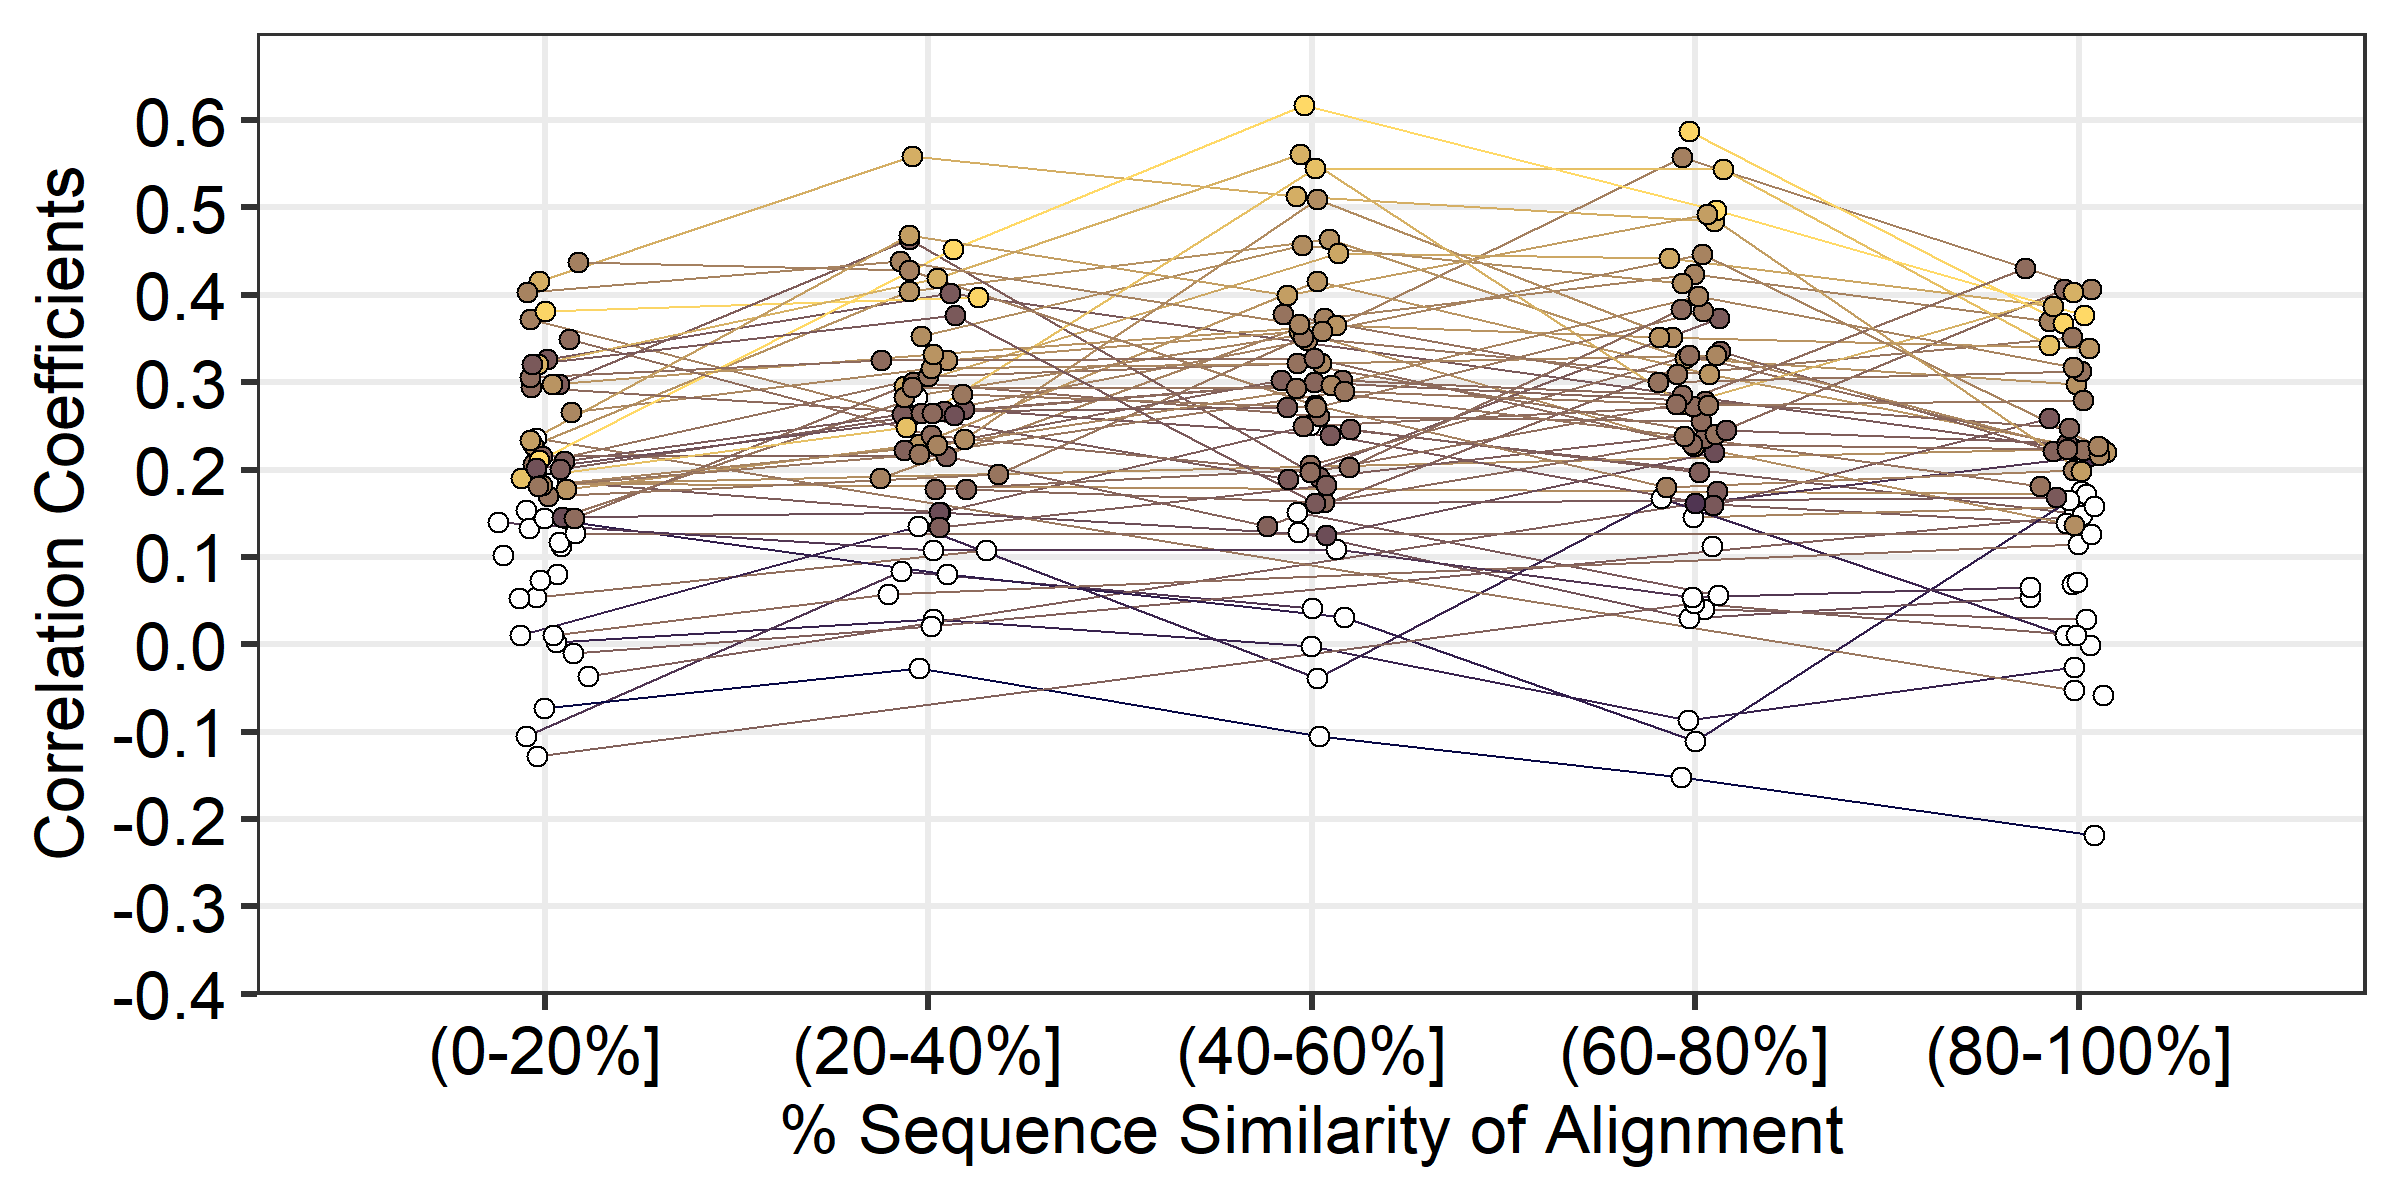
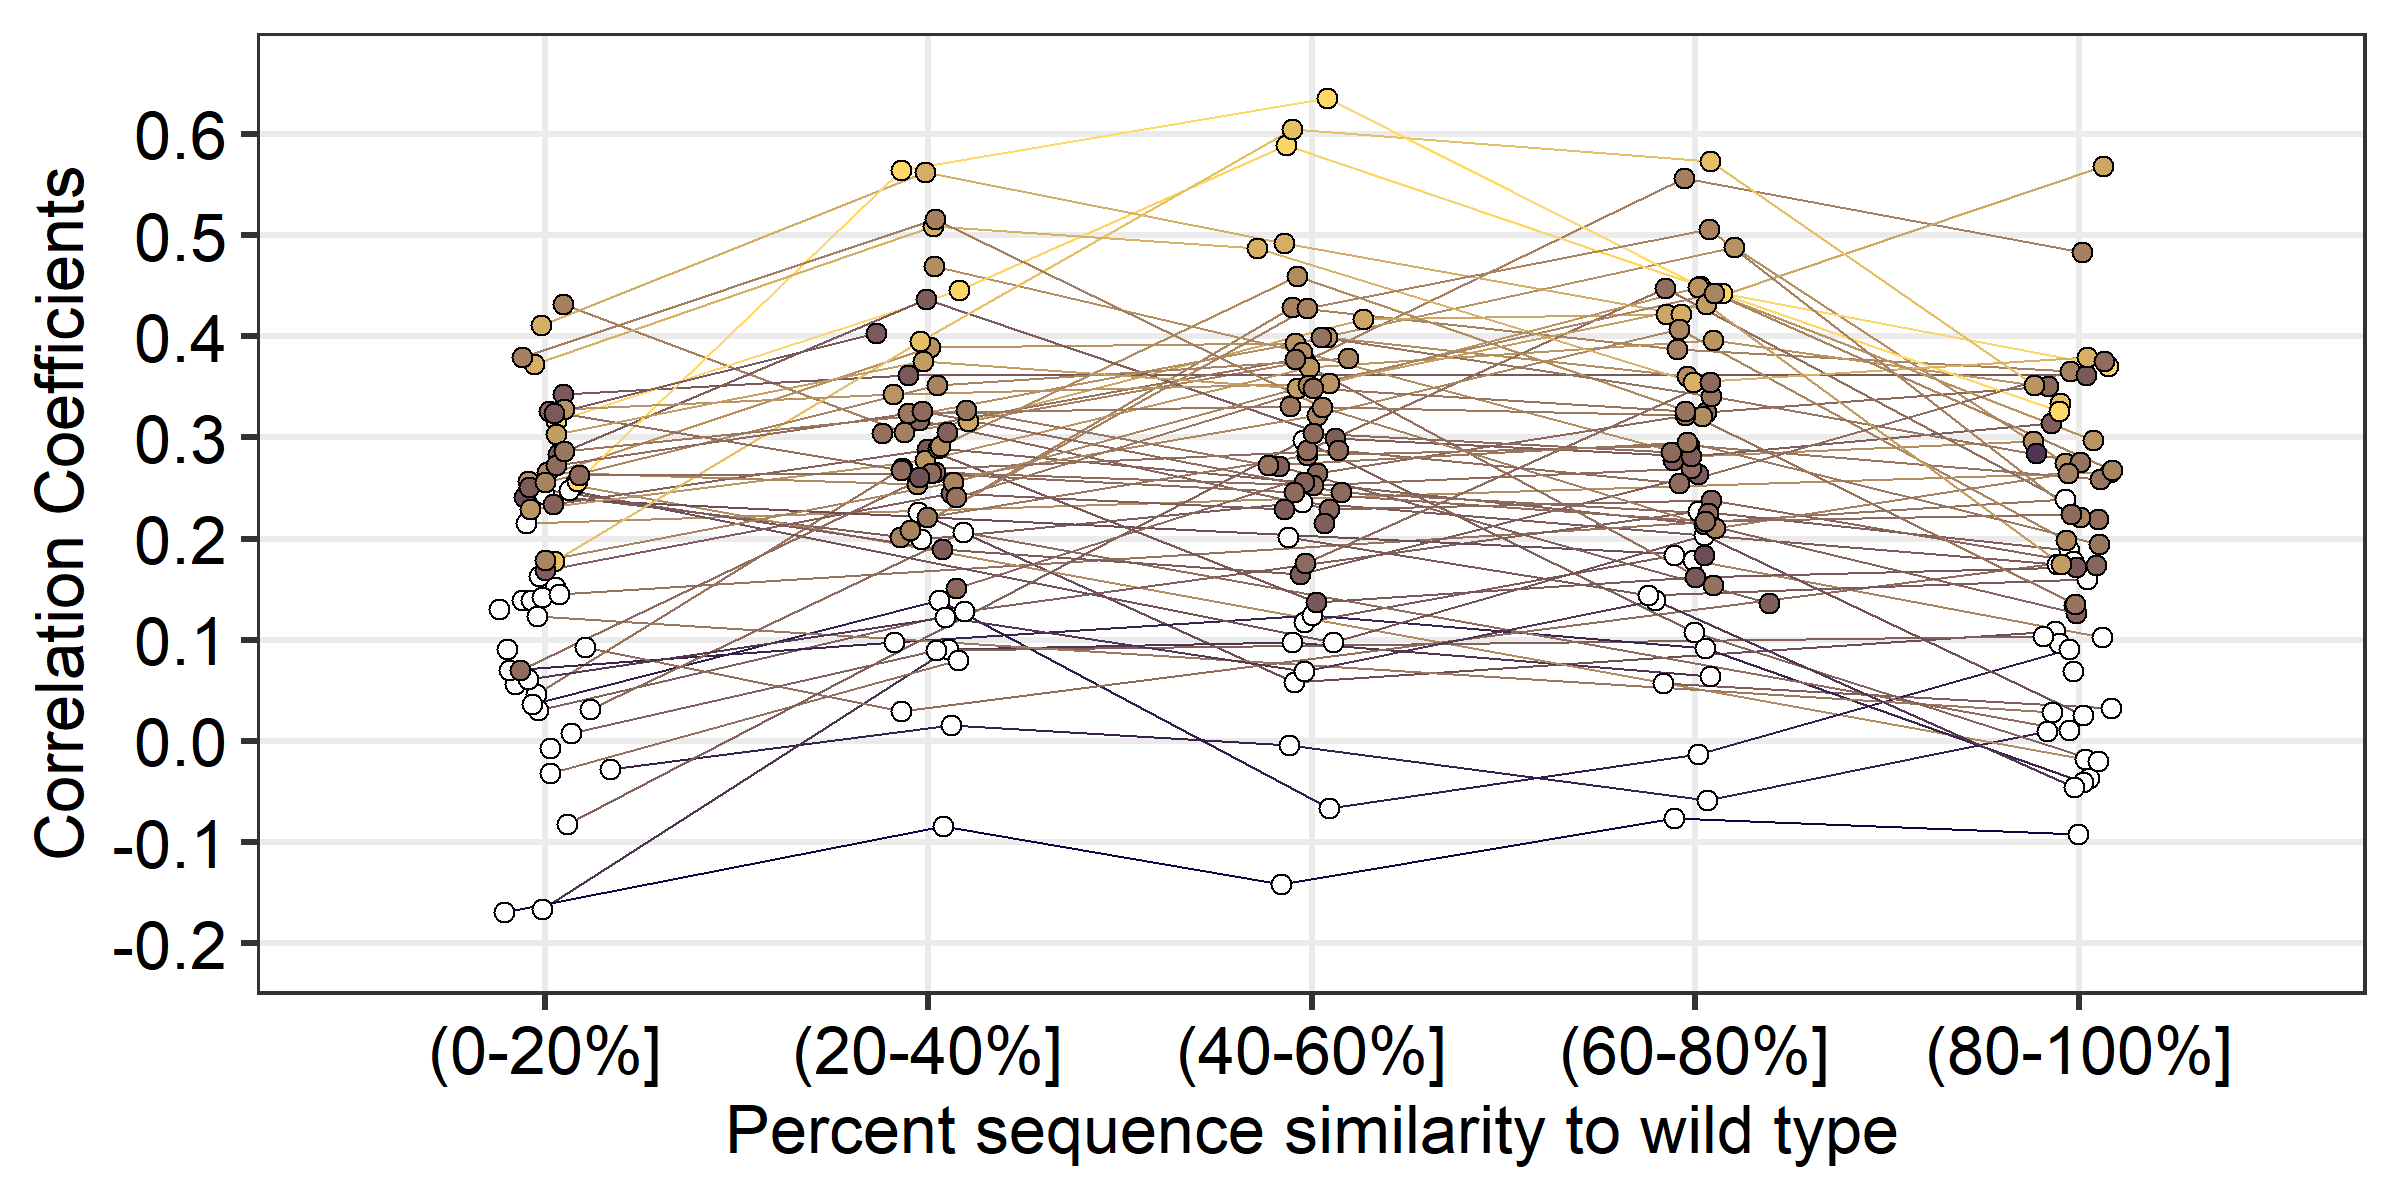
added fdr correction to p-values

diff --git a/src/python_code/sample_by_similarity.py b/src/python_code/sample_by_similarity.py
@@ -3,6 +3,7 @@ import os
 import sys
 
 # This code samples the sequences PSICOV alignments by % similarity to the sequences in the PSICOV pdb structures.
+#in other words, this program sorts alignments by similarity to the reference/wild type sequence.
 
 #Plan:
 #load the seqs from the CNN output (wt aa) into a dictionary with the protein name. 

diff --git a/src/python_code/filter_aln.py b/src/python_code/filter_aln.py
@@ -1,4 +1,4 @@
-# this program sorts alignments 
+# this program makes sure each protein alignment has more sequences that "min_seqs".
 import os
 import sys
 from shutil import copyfile
